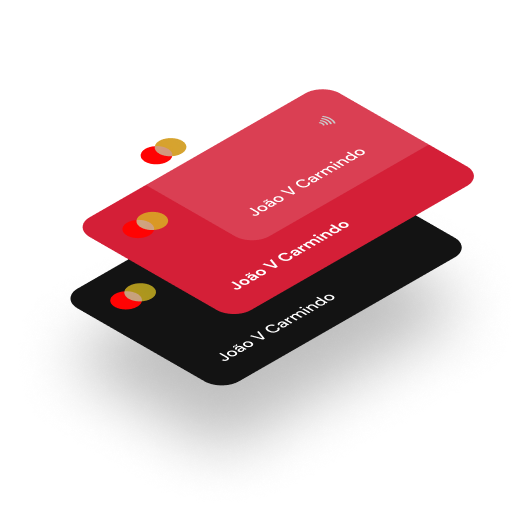
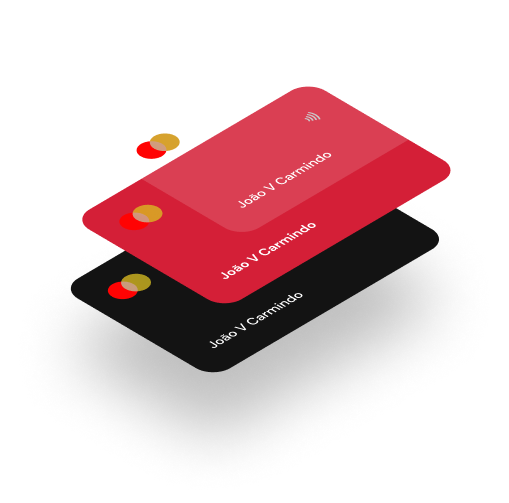
resposividade-home

diff --git a/assets/css/style.css b/assets/css/style.css
@@ -8,7 +8,6 @@
     user-select: none;
     list-style: none;
     font-family: "DM Sans", sans-serif;
-    box-sizing: border-box;
 }
 
 :root {
@@ -23,10 +22,21 @@
     --body-color: #fff;
     --z-fixed: 100;
 
+
 }
 
+img {
+  max-width: 100%;
+  height: auto;
+}
+
+.main {
+  overflow: hidden; /* For the animations */
+}
+
+
 .container {
-    max-width: 1024px;
+    max-width: 1050px; 
     margin-inline: 1.5rem;
   }
 
@@ -97,10 +107,17 @@
         color: var(--text-color-black);
     }
 
-  
-
-
+    .nav__list{
+      flex-direction: row;
+      column-gap: 4rem;
+    }
+   
   }
+
+  .nav__toggle{
+    color: var(--text-color-black);
+  }
+
 
     .nav__list {
       display: flex;
@@ -216,20 +233,20 @@
         background-color: #fff;
         display: flex;
         justify-content: center;
-        align-items: center;
+        align-items: flex-start;
         flex-direction: column;
     }
-
-    
 
     .home__title{
         font-size: 2.7rem;
         color: var(--first-color);
+        padding-left: 2rem;
        
     }
 
     .home__subtitle{
-        margin-bottom: 2rem;
+        padding: 1rem 0;
+        padding-left: 2rem;
     }
 
 
@@ -240,25 +257,84 @@
         color: #fff;
         text-align: center;
         transition: background-color .5s;
+        margin-left: 2rem;
     }
     .home__btn-link:hover{
         background-color: var(--second-color);
     }
 
     .img__home{
-        width: 50%;
-        height: 100%;
-        background: linear-gradient(149.11deg, #B03545 0%, #D41F37 100%);;
-        display: flex;
-        justify-content: center;
-        align-items: center;
-        justify-content: center;
-    }
+      width: 50%;
+      height: 100%;
+      background: linear-gradient(149.11deg, #B03545 0%, #D41F37 100%);
+      display: flex;
+      justify-content: center;
+      align-items: center;
+      flex-direction: column;
+      }
+
+      /* ================ ANIMATION CARD =============== */
+      .img__home img {
+        animation: float-cards 4s ease-in-out infinite;
+      }
+
+      @keyframes float-cards {
+        0%{
+          transform: translateY(.5rem);
+        }
+      
+        50%{
+          transform: translateY(2rem);
+        }
+      
+        100%{
+          transform: translateY(.5rem);
+        }
+      }
+      
 
 
-    /* ================== RESPONSIVE HOME ===================== */
+    /* ================== MEDIUM SERVICES ===================== */
 
 
+      @media screen and (max-width:767px){
 
+        .home{
+          flex-direction: column;
+        }
 
+        .text__home{
+          width: 100%;
+          height: 50%;
+        }
 
+        .img__home{
+          width: 100%;
+          height: 50%;
+        }
+
+        
+      }
+      
+      .img__home img {
+        padding-top: 5rem;
+      }
+
+       /* ================== SMALL SERVICES ===================== */
+
+      @media screen and (max-width:428px){
+
+        .home__title{
+          font-size: 1.7rem;
+        }
+
+        .home__subtitle{
+          font-size: 0.9rem;
+        }
+
+        .home__btn-link{
+          padding: 1rem 3rem;
+          font-size: 0.9rem;
+        }
+
+      }

diff --git a/index.html b/index.html
@@ -49,15 +49,17 @@
         <!--==================== HOME ====================-->
         <section class="home">
             <div class="text__home">
-                <div class="home__info">
-                    <h1 class="home__title">SEJA DIGITAL<br />
-                        ABRA A SUA CONTA AQUI</h1>
-                    <p class="home__subtitle">Aproveite os melhores beneficios !</p>
-                    <a class="home__btn-link" href="">QUERO COMEÇAR</a>
-                </div>
+
+                <h1 class="home__title">SEJA DIGITAL<br />
+                    ABRA A SUA CONTA AQUI</h1>
+                <p class="home__subtitle">Aproveite os melhores beneficios !</p>
+                <a class="home__btn-link" href="">QUERO COMEÇAR</a>
+
             </div>
             <div class="img__home">
+
                 <img src="./assets/img/cartões.png" alt="">
+
             </div>
         </section>
     </main>
